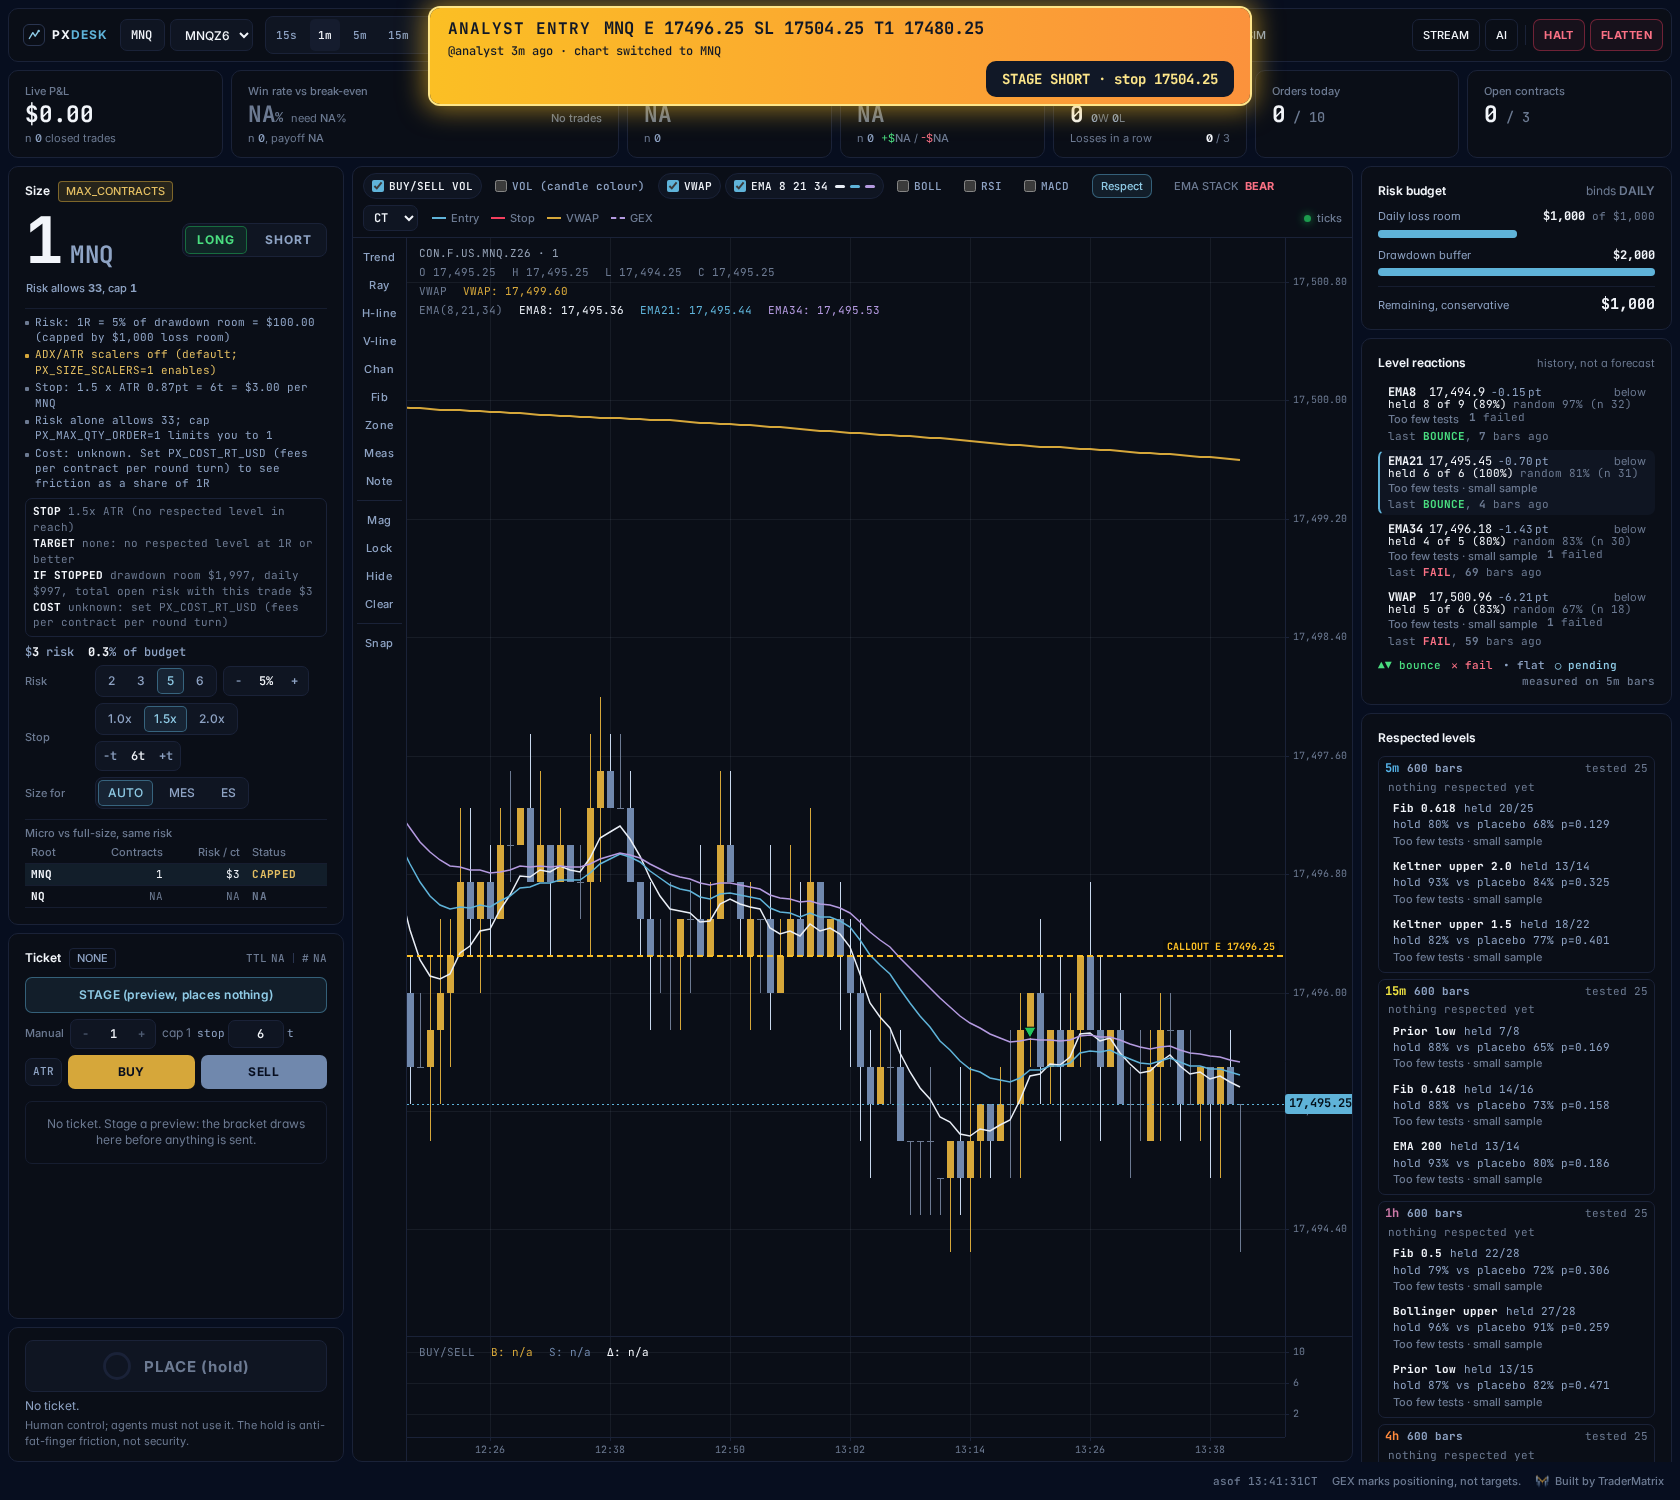
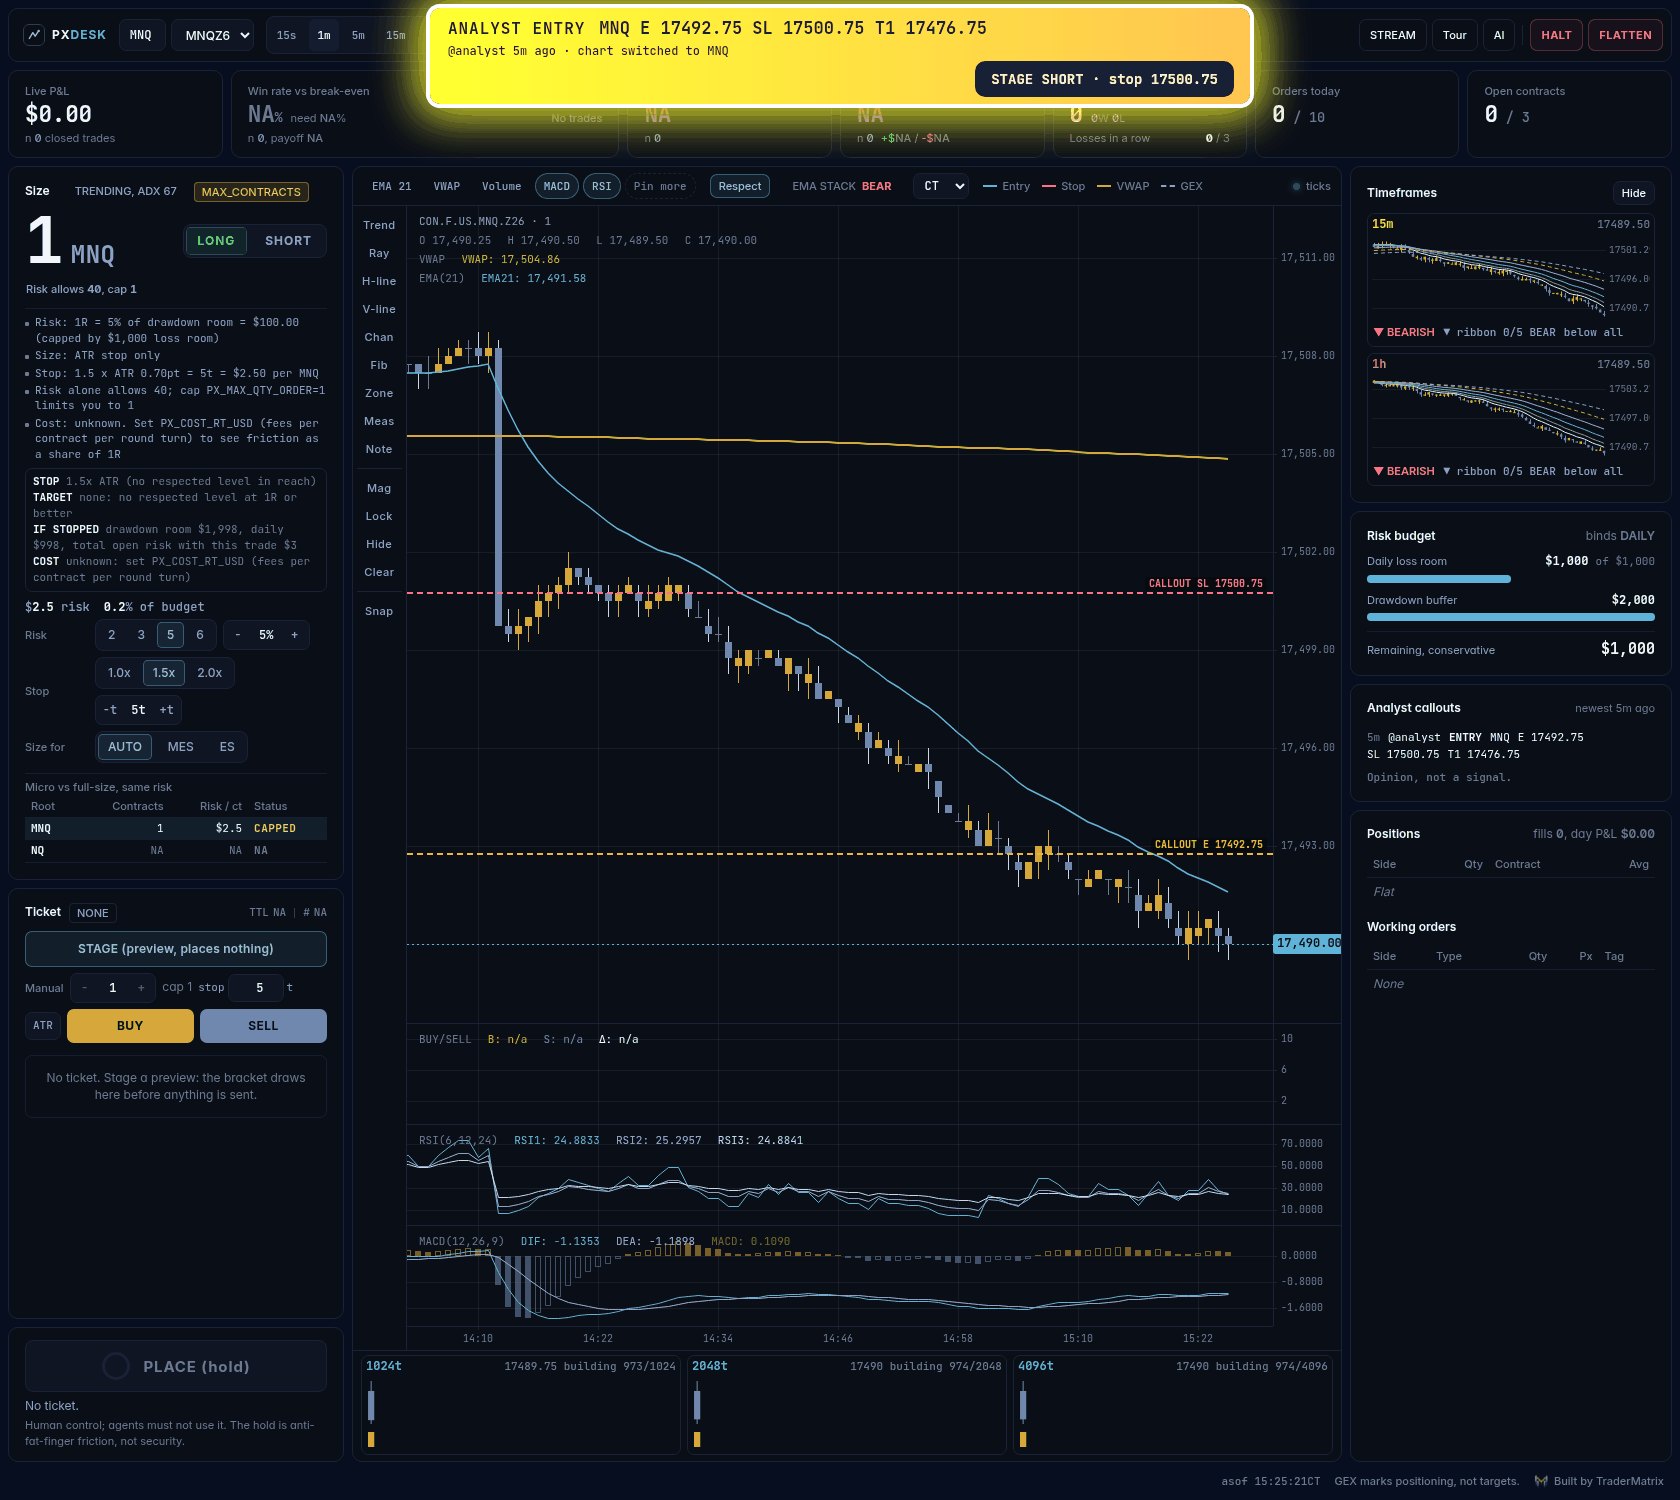
README and screenshots for the self-picking chart, six-chart layout, regime chip and tour
Screenshots regenerated from the offline mock desk. The mock desk now gets its own lock, grade file and PX_TRACK_ROOTS=0 in scripts/screenshots.py and run_dev.sh so it can never touch a real desk's lock or logs. PX_CHROMIUM lets screenshots.py use a system Chromium.

diff --git a/scripts/screenshots.py b/scripts/screenshots.py
@@ -112,6 +112,7 @@ def main():
         "PX_NO_NEW_AFTER": "16:55", "PX_TRADING": "1", "CHART_PORT": str(DESK), "PX_NO_ENV_FILE": "1", "PX_MCP_TOKEN": "",
         "PX_STATE_PATH": str(tmp / "day.json"), "PX_INTENT_PATH": str(tmp / "intents.json"), "PX_AUDIT_PATH": str(tmp / "audit.jsonl"),
         "PX_HALT_FILE": str(tmp / "HALT"), "PX_FLOW_FILE": str(tmp / "flow.json"), "PYTHONUNBUFFERED": "1",
+        "PX_LOCK_FILE": str(tmp / "desk.lock"), "PX_GRADES_FILE": str(tmp / "grades.jsonl"), "PX_TRACK_ROOTS": "0",   # the mock never takes the real desk's lock or log
         "PX_FEED_URL": f"http://127.0.0.1:{FEED}/analyst-callouts", "PX_FEED_KEY": "demo",
         "PX_FEED_STAGE": "1",            # the one-click STAGE on a callout is opt-in (Round 10); the screenshot shows it on
         "PX_GEX_URL": f"http://127.0.0.1:{GEXP}/api/v1", "PX_GEX_KEY": "demo", "DEV_GATEWAY_PORT": str(GW),
@@ -131,7 +132,7 @@ def main():
         Shared.mes, Shared.mnq = ask(MES), ask(MNQ)
         OUT.mkdir(parents=True, exist_ok=True)
         with sync_playwright() as pw:
-            b = pw.chromium.launch()
+            b = pw.chromium.launch(executable_path=os.environ.get("PX_CHROMIUM") or None)   # PX_CHROMIUM=/usr/bin/chromium skips the playwright browser download
             page = b.new_page(viewport={"width": 1680, "height": 1500})
             shot = lambda name, loc=None, **kw: (page.locator(loc).screenshot(path=str(OUT / name)) if loc else page.screenshot(path=str(OUT / name), **kw))
             page.goto(BASE + "/")

diff --git a/README.md b/README.md
@@ -93,11 +93,14 @@ arithmetic, not the result.
 | **A stop is required** | Sent right after the fill and watched for 5 seconds; if it is not acknowledged, the desk flattens and halts. If the live feed misses the fill, no stop is sent, so read the limits. |
 | **Manage the trade** | Live open R, plus one-click stop moves (breakeven, ATR trail, EMA 21 trail). Stops only move toward price, never wider. |
 | **Stats with the fine print** | Win rate sits next to the win rate you need to break even, with the trade count and a SMALL SAMPLE flag under 30 trades. |
-| **Respected levels** | For 5m, 15m, 1h, 4h and 1d: which of about 25 candidate levels (EMAs, SMAs, Keltner, Bollinger, VWAP, prior day or week, swing fibs) price has actually reacted to, scored against a calibrated random baseline, with "tested K candidates" beside the winners and a STABLE badge only if the level passes in both halves of the data. Winners are drawn on the chart (toggle: Respect). History, not a forecast. |
+| **The chart picks its own indicators** | EMA 21, VWAP and volume are always on. Everything else shows only when it has earned the timeframe on screen: a level (other EMAs, SMAs, Bollinger, Keltner, prior high or low, swing fibs) must be RESPECTED through three statistical gates and sit near price (fibs within 1.5 ATR, the rest within 3), at most three at a time; MACD and RSI appear only while they are ACTIVE (a swing-size check, not an edge claim). "Pin more" forces one on. Every scan is logged to `data/indicator_grades.jsonl` for grading later. |
+| **Respected levels (how they are scored)** | For 5m, 15m, 1h, 4h and 1d: which of about 25 candidate levels (EMAs, SMAs, Keltner, Bollinger, VWAP, prior day or week, swing fibs) price has actually reacted to, scored against a calibrated random baseline, with "tested K candidates" beside the winners and a STABLE badge only if the level passes in both halves of the data. Winners are drawn on the chart (toggle: Respect). History, not a forecast. |
 | **Timeframes** | The main chart opens on 5m (switch freely); two mini charts (15m, 1h) with the full EMA ribbon 8/13/21/34/55/89 and a bias line: `ribbon N/5 BULL / BEAR / MIXED`, which EMAs price is above, and a BULLISH / BEARISH / NEUTRAL badge that needs the whole ribbon in order. |
-| **Level reactions** | "Held 5 of 8" for EMA 8/21/34 and VWAP, next to the same test on copies of that line shifted 0.5 to 1.5 ATR away. Reaction history, not a forecast. |
+| **Trending or ranging** | A chip by the Size heading reads TRENDING or RANGING from the 5m ADX (below 20 is the sit-out zone). Size is the ATR stop only; the chip is advice and never blocks an order. |
 | **Real buy and sell volume** | A volume pane built from the trade tape's aggressor side (who hit the bid or the ask), not candle colour, plus delta. ProjectX has no tick history, so it records from the moment the desk starts, saves to disk, and shows a gap as a gap, never as a wrong number. |
-| **Tick charts** | 1024, 2048 and 4096-trade bars built from the same tape, each with its buy-minus-sell delta. |
+| **Tick charts** | 1024, 2048 and 4096-trade bars built from the same tape, in a strip under the main chart so all six charts (main, 15m, 1h and the three tick charts) are on screen at once. They start empty when the desk starts. |
+| **Tracked contracts** | `PX_TRACK_ROOTS` (default `MES,MNQ,MGC`) records those tapes and rescans the indicators every 5 minutes with no browser open, so switching contract does not start from empty. |
+| **Guided tour** | The Tour button highlights each part of the desk and says what it does. It only draws an overlay and swallows clicks while open, so it cannot place or halt anything. |
 | **GEX on the chart** | Flip, pin and walls from the TraderDaddy API, converted to futures prices and drawn as labelled lines. Display only: they never feed sizing, stops or targets. |
 | **Analyst alert** | When a fresh futures ENTRY callout posts (Discord bot feed), a banner flashes, the chart switches to that contract if you are flat, the analyst's entry, stop and first target are drawn. With `PX_FEED_STAGE=1` a STAGE button offers their trade through the normal ticket; it is off by default because the feed is an unmeasured signal and should not be the easiest entry on the screen. PLACE is still your 600 ms hold. |
 | **Level-anchored stop and target** | The stop tucks just beyond a level price has respected (never tighter than 1.5x ATR, never wider than 2x); the target is the nearest respected level at 1R or better, with its R:R and break-even win rate. |
@@ -132,7 +135,7 @@ More in [known limitations](docs/LIMITATIONS.md).
 </tr>
 </table>
 
-![The whole desk: chart with GEX lines, EMA ribbon and real buy/sell volume, the size box, risk budget and level reactions](docs/img/desk-idle.png)
+![The whole desk: chart with GEX lines, EMA ribbon and real buy/sell volume, the size box with the trending/ranging chip, the 15m and 1h charts, risk budget and the three tick charts](docs/img/desk-idle.png)
 
 <sub>Offline practice market (synthetic prices), flat. Nothing on screen is a result.</sub>
 
